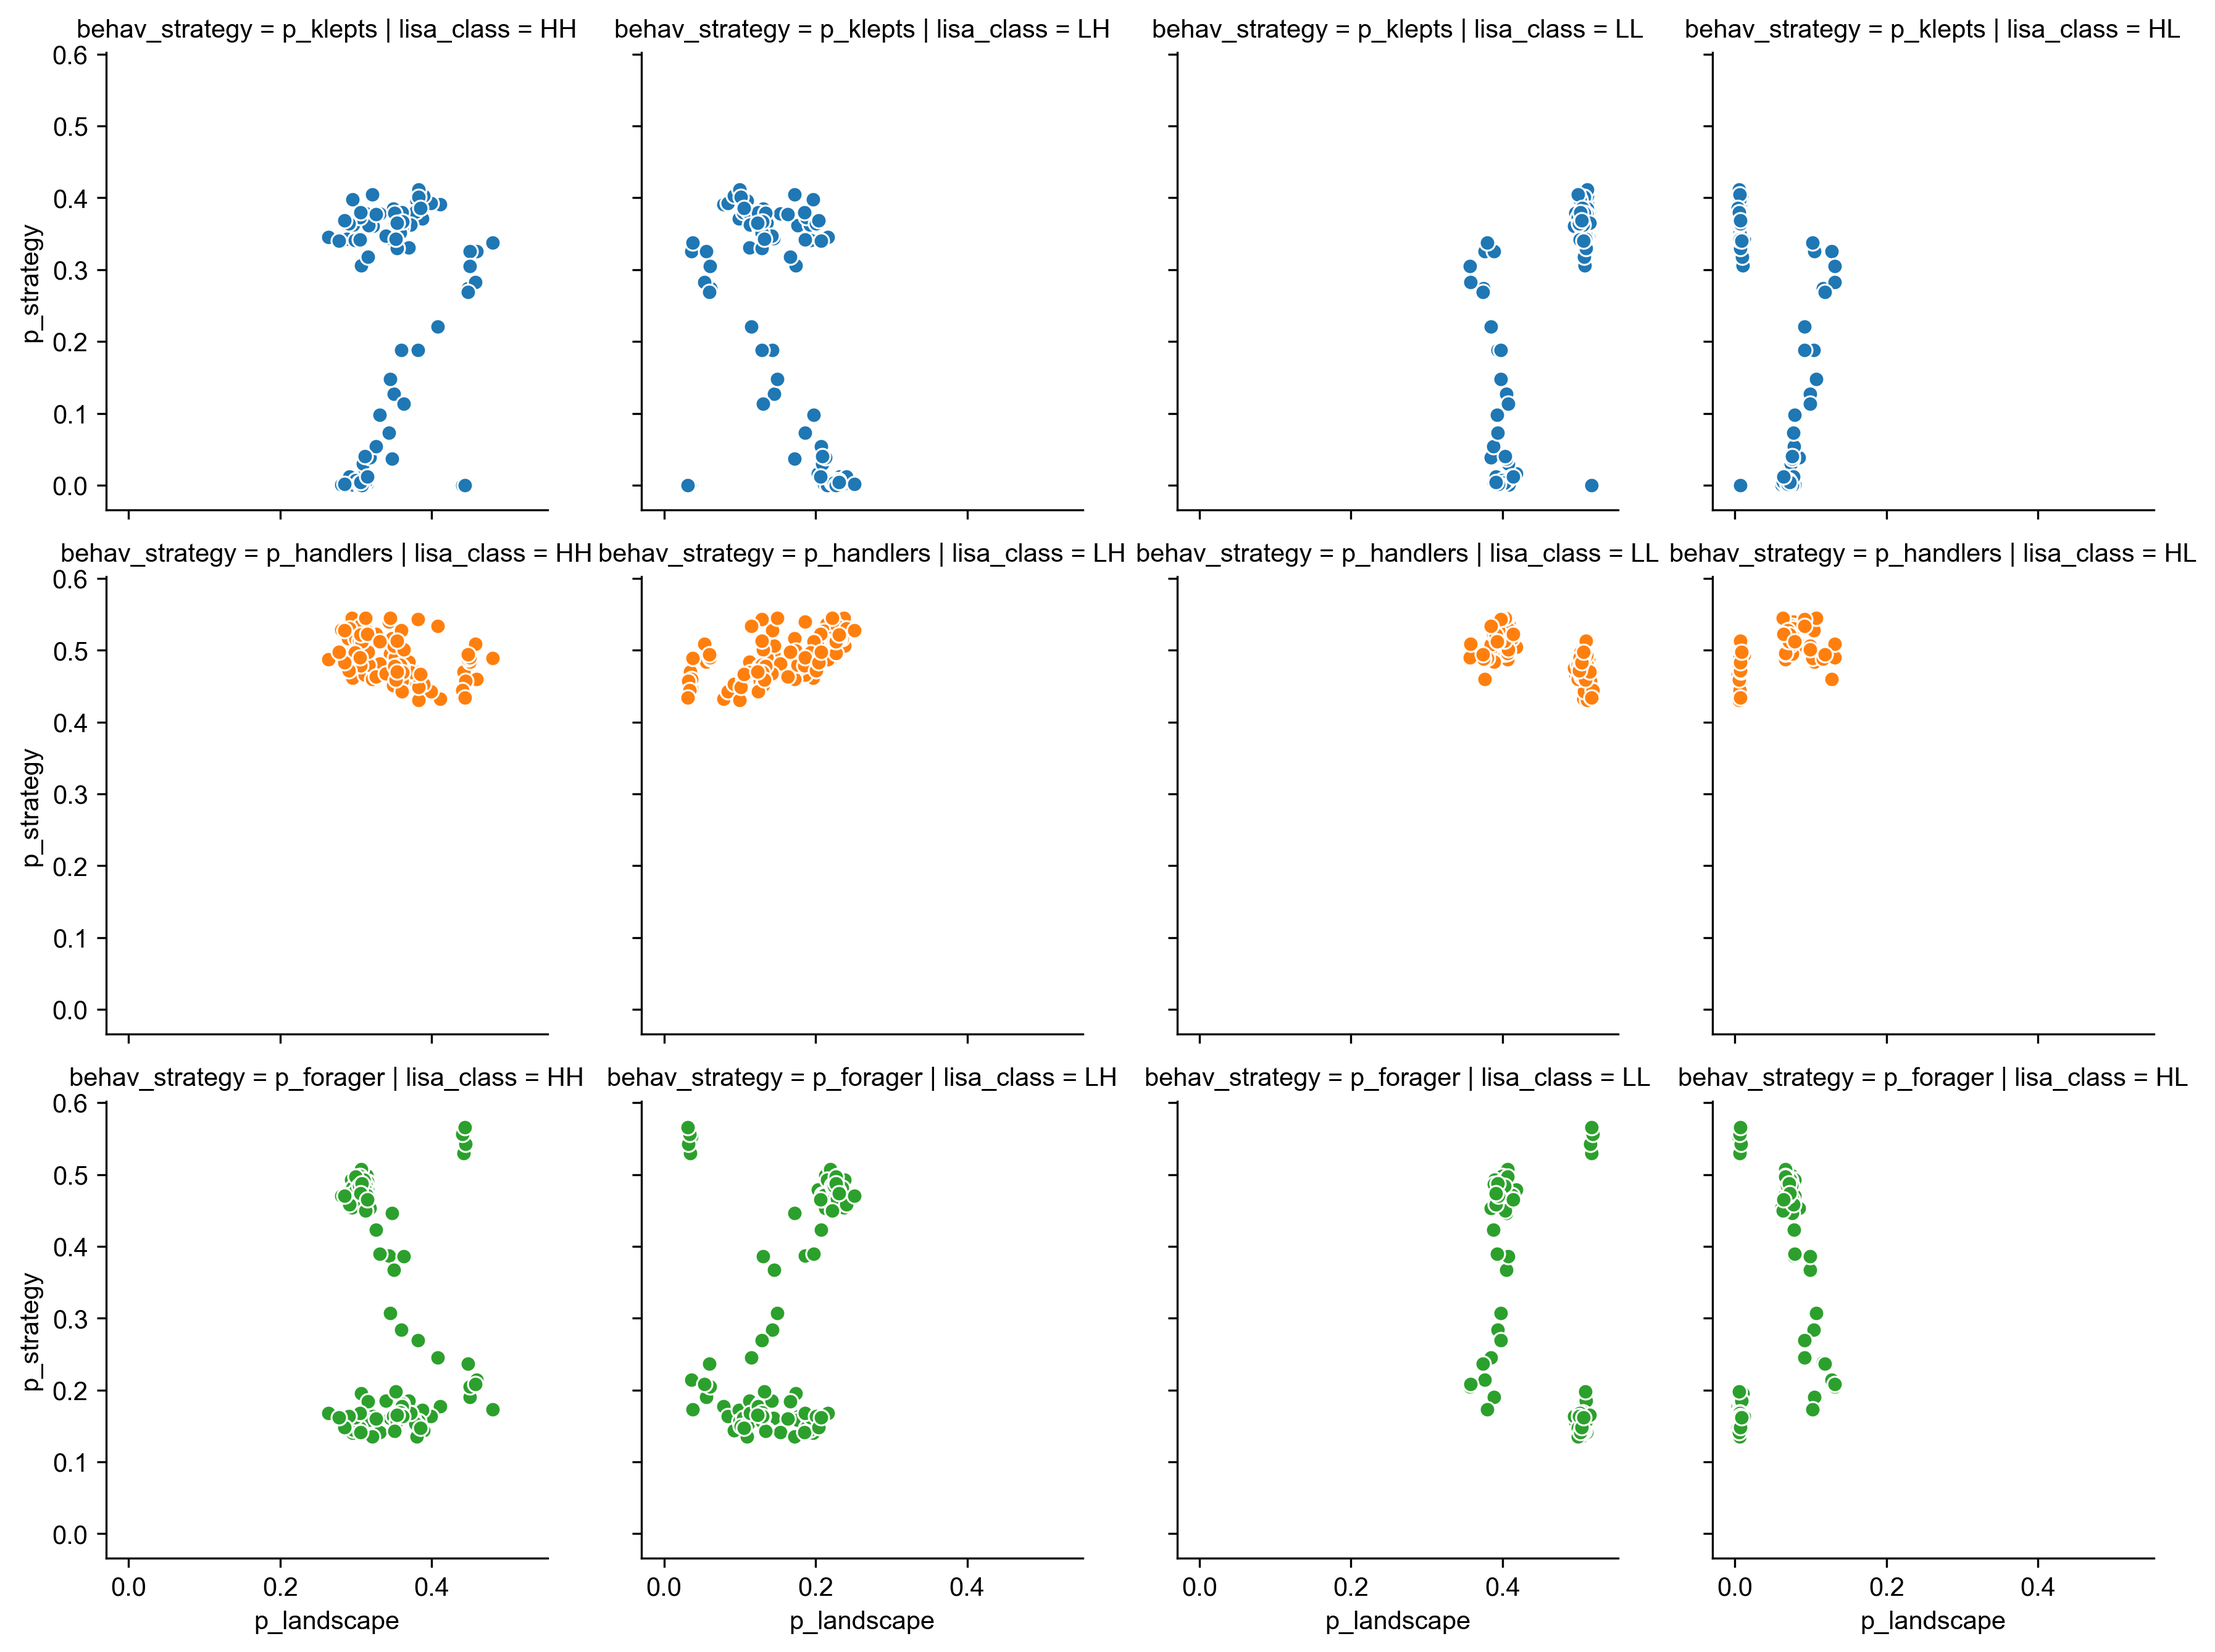
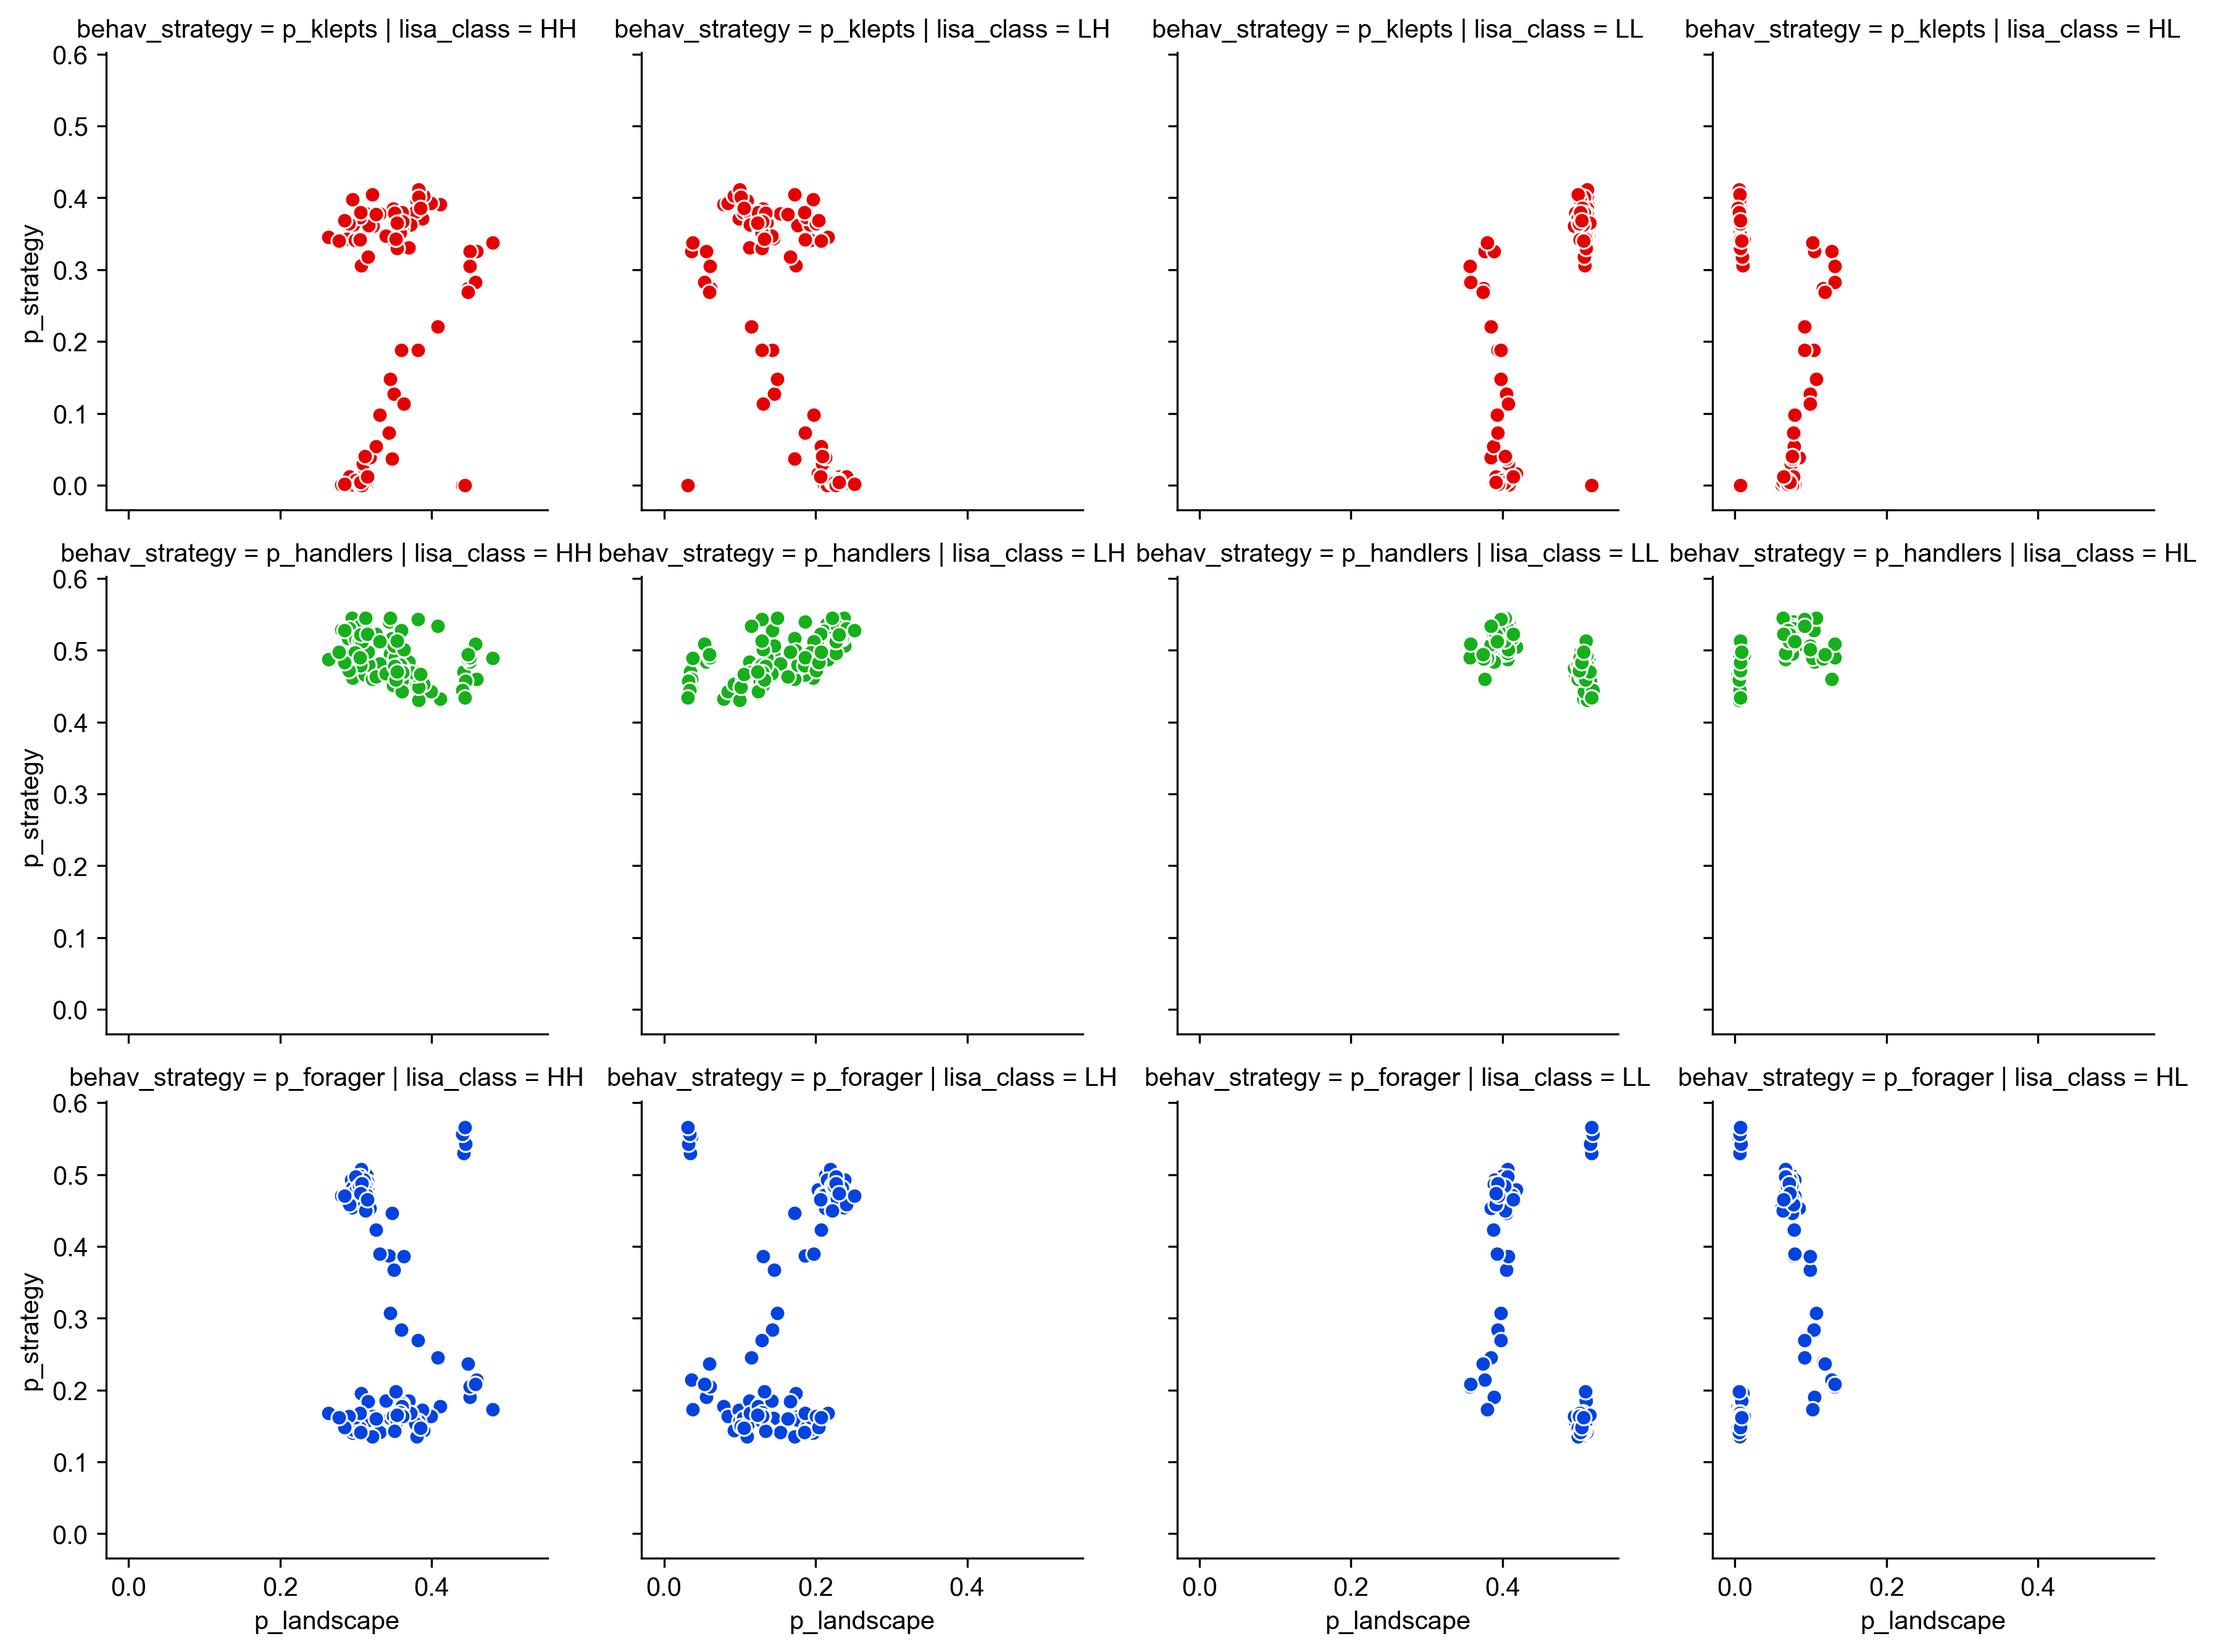
add correct colours

diff --git a/code/code_01.py b/code/code_01.py
@@ -123,7 +123,8 @@ data_landscape_x.to_csv("data/data_strategy_behaviour_landscape.csv", index=Fals
 
 fig_strategy_landscape = sns.FacetGrid(data_landscape_x,
                                        col="lisa_class", row="behav_strategy",
-                                       hue='behav_strategy')
+                                       hue='behav_strategy',
+                                       palette=['xkcd:red', 'xkcd:green', 'xkcd:blue'])
 fig_strategy_landscape = fig_strategy_landscape.map(sns.scatterplot,
                                                     'p_landscape', 'p_strategy')
 fig_strategy_landscape.savefig(fname='figs/fig_example_strategy_landscape.png',
